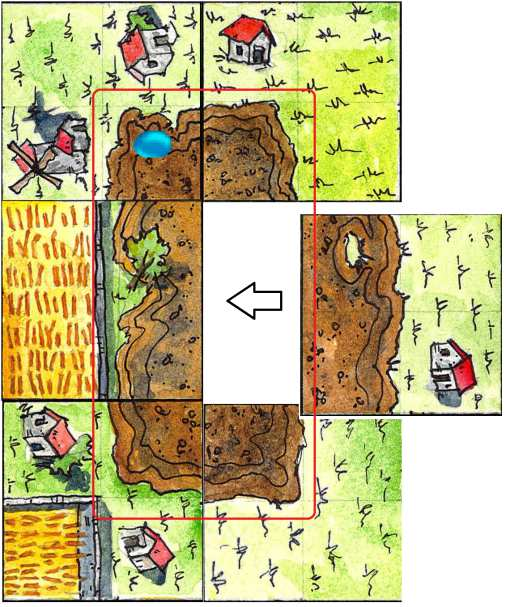
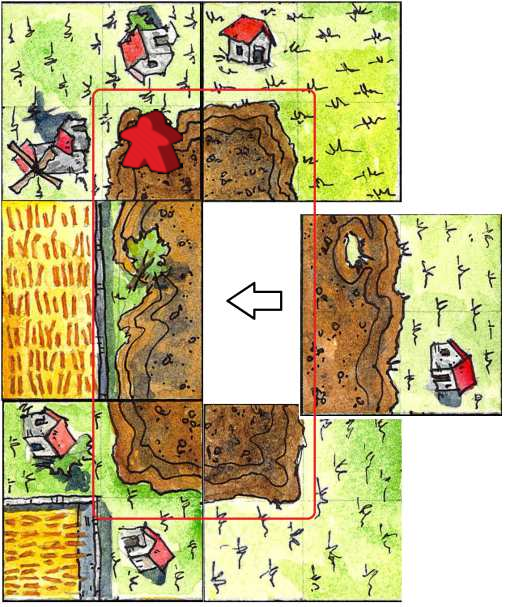
Refine contents and images
Replaced markers with meeples.

Changed region(s): [[0.2372, 0.1779, 0.3557, 0.2965]]

diff --git a/index.html b/index.html
@@ -13,6 +13,9 @@
 			break-after:always;
 			page-break-after:always;
 		}
+		.center {
+			text-align:center;
+		}
 		h1 {
 			font-size:1.5em;
 			font-weight:bold;
@@ -89,14 +92,17 @@
 		<h1>Farmopul 2 人用説明書 (私家版)</h1>
 		<p class="credit">Archinerd によるマイクロプルのリテーマ</p>
 		<p class="description">1 人用のソリティア パズルまたは 2 人用の対戦ゲーム</p>
+		<div class="center"><img width="640" height="328" src="images/title image.jpg"></div>
+
 		<h2>目次</h2>
 		<ul class="nomark">
 			<li><a href="#component">コンポーネント</a></li>
+			<li><a href="#about">Farmopul とは</a></li>
+			<li><a href="#glossary">用語</a></li>
 			<li><a href="#procedure">ゲームの手順</a></li>
 			<li><a href="#gameend">ゲームの終了</a></li>
 			<li><a href="#win">ゲームの勝敗</a></li>
 			<li><a href="#scoring">得点計算</a></li>
-			<li><a href="#glossary">用語</a></li>
 			<li><a href="#hand">手札関係のルール</a></li>
 			<li><a href="#tiles">タイルを場に出すときのルール</a></li>
 			<li><a href="#myheap">自分の所有地と連続プレイに関するルール</a></li>
@@ -106,52 +112,27 @@
 			<li><a href="#appendix-c">付録 C: 4 人でプレイする場合のルール変更点</a></li>
 			<li><a href="#appendix-d">付録 D: アプリ版 micropul</a></li>
 		</ul>
+
 		<h2 id="component">コンポーネント</h2>
 		<div class="component">
 			<ul>
 				<li>タイル 48 枚</li>
-				<li>農民 6 個 (マーカー 2 色 3 個ずつ)</li>
+				<li>農夫 6 個 (マーカー 2 色 3 個ずつ)</li>
 			</ul>
 			<img class="component" width="56" height="56" src="images/fig0000.png">
 			<img class="component" width="56" height="56" src="images/fig0001.png">
 			<img class="component" width="56" height="56" src="images/fig0002.png">
 			<img class="component" width="56" height="56" src="images/fig0003.png">
 		</div>
-		<h2 id="procedure">ゲームの手順</h2>
-		<div class="overview">
-			<img width="350" src="images/fig0012.png">
-			<ol>
-				<li>最初に親を決める。</li>
-				<li>親はスタートタイル以外のタイルを伏せたままシャッフルしコアをつくる。</li>
-				<li>各プレイヤーはコアから 6 枚のタイルを引き手札にする。</li>
-				<li><p>最初のプレイヤーをランダムに決める。</p></li>
-				<li>
-					<p>最初のプレイヤーから各プレイヤーは以下の 3 つのうちの<b>どれか</b>を実行する。パスはできない。</p>
-					<ul>
-						<li><b>自分の手札</b>のタイルを 1 枚、場に出す。</li>
-						<li><b>自分の所有地</b>から自分の手札にタイルを 1 枚補充する。</li>
-						<li>農場に自分の農民を乗せる。</li>
-					</ul>
-				</li>
-				<li>ゲームが終了するまで 5 を繰り返す。</li>
-				<li>ゲームが終わったら得点計算をする。</li>
-			</ol>
-		</div>
-		<h2 id="gameend">ゲームの終了</h2>
-		<p>以下のいずれかの場合にゲームは終了する。</p>
-		<ol>
-			<li>大地から最後の 1 枚のタイルが引かれ、<b>自分の所有地</b>もしくは<b>相手の所有地</b>に加えられた。</li>
-			<li>自分の手番だが 3 つの選択肢のどれもプレイできない。</li>
-		</ol>
-		<h2 id="win">ゲームの勝敗</h2>
-		<p>得点計算の結果、得点が多い方が勝者となる。</p>
-		<p>ただしゲームの終了 2 でゲームが終了した場合はプレイできなかったプレイヤーは即時に敗者となる。</p>
-		<h2 id="scoring">得点計算</h2>
-		<ol>
-			<li><b>自分の所有地</b>のタイル 1 枚に付き <b>2 点</b></li>
-			<li><b>自分の手札</b>のタイル 1 枚に付き <b>1 点</b></li>
-			<li>自分の<b>確保が確定</b>した<b>閉じた</b>農場に含まれる農地 1 つにつき <b>1 点</b>。大きな農地は 1 点として数える。</li>
-		</ol>
+
+		<h2 id="about">Farmopul とは</h2>
+		<p>Farmopul は以下のものを集めて点数を競うゲームです。</p>
+		<ul>
+			<li>自分が確保した閉じた農場</li>
+			<li>自分の所有地</li>
+			<li>自分の手札</li>
+		</ul>
+
 		<h2 id="glossary">用語</h2>
 		<dl class="words">
 			<dt>タイル</dt>
@@ -172,22 +153,22 @@
 			<dt>自分の所有地</dt>
 			<dd><p>大地から引いた<b>伏せられたまま</b>の自分専用のタイルの山。ゲームスタート時は存在しない。</p></dd>
 			<dt>手札</dt>
-			<dd>プレイにより増減する。ゲームスタート時の枚数は 6 枚。</p></dd>
+			<dd>プレイにより増減する。ゲームスタート時の枚数は 6 枚。で 6 枚を超えて持つことはできない。</p></dd>
 			<dt>場</dt>
 			<dd>
 				<p>タイルを並べてゆく場所</p>
 				<img width="350" src="images/fig0015.png">
 			</dd>
-			<dt>農民</dt>
+			<dt>農夫</dt>
 			<dd>
 				<img width="48" height="48" src="images/fig0003.png">
-				<p>マーカーを農民と呼ぶ。農場に乗せる。</p>
+				<p>マーカーを農夫と呼ぶ。農夫を農場に乗せるとその農場はそのプレイヤーに確保される。</p>
 			</dd>
 			<dt>農地</dt>
 			<dd>
 				<img width="36" height="36" src="images/fig0016.png">
 				<img width="36" height="36" src="images/fig0017.png">
-				<p>タイルに描かれている農耕可能な土地。畑になっているものと土の状態のものがある。</p>
+				<p>タイルに描かれている農耕可能な土地。畑と土壌がある。</p>
 			</dd>
 			<dt>大きな農地</dt>
 			<dd>
@@ -216,60 +197,106 @@
 				<img width="48" height="48" src="images/fig0009.png">
 			</dd>
 		</dl>
+
+		<h2 id="procedure">ゲームの進め方</h2>
+		<div class="overview">
+			<img width="350" src="images/fig0012.png">
+			<ol>
+				<li>最初に親を決めます。親は大地とスタートタイルを用意すること以外は普通のただのプレイヤーです。有利不利はないので、だれが親でもかまいません。</li>
+				<li>親はスタートタイル以外のタイルを伏せたままシャッフルし大地を用意します。親としての役割はこれで終わりです。</li>
+				<li>各プレイヤーは大地から 6 枚のタイルを引き手札にします。これでプレイの準備ができました。</li>
+				<li><p>最初のプレイヤーをじゃんけんでもダイスでもカードカットでも好きな方法でランダムに決めます。</p></li>
+				<li>
+					<p>最初のプレイヤーから各プレイヤーは以下の <b>3 つのうちのどれかのアクション</b>を実行します。パスはできません。</p>
+					<ul>
+						<li><b>自分の手札</b>のタイルを 1 枚、場に出す。</li>
+						<li><b>自分の所有地</b>から自分の手札にタイルを 1 枚補充する。</li>
+						<li>農場に自分の農民を乗せて確保する。</li>
+					</ul>
+				</li>
+				<li>ゲームが終了するまで 5 を繰り返します。</li>
+				<li>ゲームが終わったら得点計算をします。</li>
+			</ol>
+		</div>
+
+		<h2 id="gameend">ゲームの終了</h2>
+		<p>以下のどちらかの場合にゲームは終わります。</p>
+		<ol>
+			<li>大地から最後の 1 枚のタイルが引かれ、<b>自分の所有地</b>もしくは<b>相手の所有地</b>に加えられた。</li>
+			<li>自分の手番だが 3 つの選択肢のどれもプレイできない。</li>
+		</ol>
+
+		<h2 id="win">ゲームの勝敗</h2>
+		<p>得点計算の結果、得点が多い方が勝者となります。</p>
+		<p>ただし ‘ゲームの終了 2’ でゲームが終了した場合はプレイできなかったプレイヤーは即時に敗者となります。</p>
+
+		<h2 id="scoring">得点計算</h2>
+		<ol>
+			<li><b>自分の所有地</b>のタイル 1 枚に付き <b>2 点</b></li>
+			<li><b>自分の手札</b>のタイル 1 枚に付き <b>1 点</b></li>
+			<li>自分の<b>確保が確定</b>した<b>閉じた</b>農場に含まれる農地 1 つにつき <b>1 点</b>。大きな農地は 1 点として数える。</li>
+		</ol>
+
 		<h2 id="hand">手札関係のルール</h2>
 		<ul>
-			<li>手札のタイルの数は <b>6 枚を越えてはならない。</b></li>
-			<li>手札の補充は<b>自分の所有地</b>からしかできず直接大地から補充はできない。</li>
+			<li>手札のタイルの数は <b>6 枚を越えてはいけません。</b></li>
+			<li>手札の補充は<b>自分の所有地</b>からしかできず直接大地から補充はできません。</li>
 		</ul>
+
 		<h2 id="tiles">タイルを場に出すときのルール</h2>
 		<ul class="tilesrules">
 			<li>
-				<p>プレイするタイルはすでに置かれているタイルに隣接して繋がるように配置しなければならない。下図の赤線で囲まれた場所にしかタイルを置くことができない。</p>
+				<p>プレイするタイルはすでに置かれているタイルに隣接してつながるように配置しなければならなりません。下図の赤線で囲まれた場所にしかタイルを置くことができません。</p>
 				<img width="256" height="248" src="images/fig0022.png">
 			</li>
 			<li>
-				<p>タイル同士は下図のように<b>同じ種類の最低 1 組</b>の農地同士が<b>必ず</b>接していなければならない。</p>
+				<p>タイル同士は下図のように<b>同じ種類の最低 1 組</b>の農地同士が<b>必ず</b>接していなければなりません。</p>
 				<img width="256" height="" src="images/fig0020.png">
 			</li>
 			<li>
-				<p>下図のように<b>異なる種類の農地は接してはいけない。</b>この例ではプレイタイルを 90 度反時計回りに回すとタイルを置くことができる。</p>
+				<p>下図のように<b>異なる種類の農地は接してはいけません。</b>この例ではプレイタイルを 90 度反時計回りに回すとタイルを置くことができます。</p>
 				<img width="256" height="" src="images/fig0021.png">
 			</li>
-			<li><p>タイルを置くことができた場合、プレイタイルと隣接タイルの農地と作業小屋が接しているか<b>必ずチェックする</b>こと。なぜかというと作業小屋と農地が接すると<b>大地の 1 部を所有地にすることができる</b>からである。大地の土地の 1 部を所有することについては次項で述べる。</p></li>
-			<li><p>作業小屋、風車小屋、空き地は隣接タイルの農地に接してもかまわないし、接さなくてもかまわない。接していない場合は大地を開墾することも連続プレイもできない。</p></li>
+			<li><p>タイルを置くことができた場合、プレイタイルと隣接タイルの農地と作業小屋が接しているか<b>必ずチェック</b>しなければなりません。なぜかというと作業小屋と農地が接すると<b>大地からタイルを引いて自分の所有地にすることができる</b>からです。大地からタイルを引いて自分の所有地にすることについては後で述べます。</p></li>
+			<li><p>作業小屋、風車小屋、空き地は隣接タイルの農地に接してもかまいませんし、接さなくてもかまいません。接していない場合は大地からタイルを引くことも連続プレイもできません。</p></li>
 		</ul>
+
 		<h2 id="myheap">自分の所有地と連続プレイに関するルール</h2>
-		<h3 id="catalyst">大地の 1 部を所有する</h3>
-		<p>　下のようにタイルをプレイすると、農地と作業小屋が隣り合う。このときプレイヤーは<b>大地</b>の 1 部を<b>所有する</b>ことができる。すなわち<b>大地</b>から<b>自分の所有地</b>にタイルを引くことができる。また、農地と風車小屋隣り合うことでもう 1 度だけ連続プレイをすることもできる。</p>
+		<h3 id="catalyst">大地からタイルを引き自分の所有地にする</h3>
+		<p>　下のようにタイルをプレイすると、農地と作業小屋が隣り合います。このときプレイヤーは<b>大地</b>からタイルを 1 枚伏せたま引き、それを<b>自分の所有地にする</b>ことができます。また、農地と風車小屋隣り合っているので、もう 1 度だけ連続プレイをすることもできます。</p>
 		<dl class="catalyst">
 			<dt><img width="192" height="" src="images/fig0006.png"></dt>
-			<dd><p>1 棟の作業小屋が隣接タイルの農地に接しているため大地の 1 部を所有することができる。つまり 1 枚のタイルを<b>大地</b>から<b>自分の所有地</b>に伏せたまま引くことができる。また 2 棟の作業小屋も隣接タイルの農地に接している。そのため同様に 2 枚のタイルを<b>大地</b>から<b>自分の所有地</b>に伏せたまま引くことができる。</p></dd>
+			<dd><p>1 棟の作業小屋が隣接タイルの農地に接しているため大地からタイルを 1 枚伏せたまま引いて自分の所有地に加えることができます。自分の所有地のタイルは伏せたままにしておき、手札になるまで見てはいけません。<br>また 2 棟の作業小屋も隣接タイルの農地に接しています。そのため同様に 2 枚のタイルを<b>大地</b>から<b>自分の所有地</b>に伏せたまま引くことができます。</p></dd>
 			<dt><img width="192" height="" src="images/fig0023.png"></dt>
-			<dd><p>プレイタイルの左上の農地が隣接タイルの 1 棟の作業小屋と 2 棟の作業小屋に接している。この場合隣接タイルの作業小屋の棟数の数の合計 3 つと同数のタイル 3 枚を<b>大地</b>から<b>自分の所有地</b>に伏せた状態で引くことができる。また右上の農地も隣接タイルの 1 棟の作業小屋に接しているので更にもう 1 枚のタイルを<b>大地</b>から<b>自分の所有地</b>に伏せた状態で引くことができる。</p></dd>
+			<dd><p>プレイタイルの左上の農地が隣接タイルの 1 棟の作業小屋と 2 棟の作業小屋に接しています。この場合隣接タイルの作業小屋の棟数の数の合計 3 つと同数のタイル 3 枚を<b>大地</b>から<b>自分の所有地</b>に伏せたままで引くことができます。また右上の農地も隣接タイルの 1 棟の作業小屋に接しているので更にもう 1 枚のタイルを<b>大地</b>から<b>自分の所有地</b>に伏せた状態で引くことができます。</p></dd>
 			<dt><img width="192" height="" src="images/fig0024.png"></dt>
-			<dd><p>土の農地が隣接タイルの風車小屋に接しているため、プレイヤーはもう 1 度連続してプレイすることができる。その際のプレイはゲームの手順 5 で概説した 3 つの中からどれかを実行する。その結果再び風車小屋がプレイタイルもしくは隣接タイルの農地に接した場合は再プレイは行うことはできない。つまり<b>再プレイは自分のプレイでは 1 度のみ。</b></p></dd>
+			<dd><p>土壌の農地が隣接タイルの風車小屋に接しているため、プレイヤーはもう 1 度連続してプレイすることができます。その際のプレイはゲームの手順 5 で説明した 3 つのアクションの中から 1 つを選んで実行します。その結果再び風車小屋がプレイタイルもしくは隣接タイルの農地に接した場合は再プレイは行うことはできません。つまり<b>再プレイは自分のプレイでは 1 度だけ</b>です。</p></dd>
 		</dl>
+
 		<h3 id="myheap">自分の所有地に関するルール</h3>
 		<ul>
-			<li><p>常にタイルは伏せたままにしておき見てはならないし見せてもならない。</p></li>
-			<li><p><b>自分の所有地</b>にタイルがあるのなら自分の手番で<b>自分の所有地</b>から<b>手札</b>にタイルを補充しても良い。</p></li>
-			<li>ゲーム中における<b>自分の所有地</b>の最大タイル数の制限はない。</p>
+			<li><p>常にタイルは伏せたままにしておいて見てはいけませんし見せてもいけません。</p></li>
+			<li><p><b>自分の所有地</b>にタイルがあるのなら自分の手番で<b>自分の所有地</b>から<b>手札</b>にタイルを補充することができます</p></li>
+			<li>ゲーム中における<b>自分の所有地</b>の最大タイル数の制限はありません。</p>
 		</ul>
+
 		<h2 id="marker">農場に農夫 (マーカー) を乗せるときのルール</h2>
 		<h3>農場の確保</h3>
-		<p>　プレイヤーは<b>自分の手番のときに</b>好きな農場に農夫 (マーカー) を置くことができる。</p>
-		<p>　農場の上に農夫を置くとその農場が自分のものとして<b>確保</b>される。農夫を置くとその取り消しはできず後で回収することもできない (<a href="https://www.mobius-games.co.jp/PDF/Carcassonne.pdf" class="external">カルカソンヌ</a>のミープルのようには回収されないしできない)。</p>
-		<p>　確保した農場が最終的に<b>閉じているなら</b>、得点計算項で触れたように、その農場に含まれる農地の数が全て自分の得点となる (大きな農地は 1 点として計算する)。</p>
-		</p>　しかし農場が閉じていなければその農場は得点とはならない。</p>
+		<p>　プレイヤーは<b>自分の手番のときに</b>好きな農場に農夫を置くことができます。</p>
+		<p>　農場の上に農夫を置くとその農場が自分のものとして<b>確保</b>されます。農夫を置くとその取り消しはできませんし、<a href="https://www.mobius-games.co.jp/PDF/Carcassonne.pdf" class="external">カルカソンヌ</a>のミープルのようにプレイで回収することもできません。</p>
+		<p>　確保した農場が最終的に<b>閉じているなら</b>、得点計算項で触れたように、その農場に含まれる農地の数が全て自分の得点になります (大きな農地は 1 点として計算します)。</p>
+		</p>　しかし農場が閉じていなければその農場は得点とはなりません。</p>
+
 		<h3>農夫を農場に置けないとき</h3>
-		<p>　前述したようにプレイヤーは自分の手番のときに好きな農場に農夫を置くことができるが例外もある。</p>
-		<p>　自分の手番の前にすでに農夫が置かれていて、誰かによって<b>確保済み</b>の農場には農夫を置くことはできない。</b></p>
+		<p>　前述したようにプレイヤーは自分の手番のときに好きな農場に農夫を置くことができますが例外もあります。</p>
+		<p>　自分の手番の前にすでに農夫が置かれていて、誰かによって<b>確保済み</b>の農場には農夫を置くことはできません。</b></p>
+
 		<h3>プレイの結果農夫を置いた複数の農場が統合された場合</h3>
-		<p>　まだ閉じていない複数の農場上にそれぞれ<b>異なるプレイヤーの農夫が置かれている</b>ものとする。</p>
-		<p>　プレイが進んだ結果それらの農場が 1 つに統合される場合がある。それらの農場は統合はされるが、農夫による確保は帳消しになり誰の得点源にもならない<b>死んだ</b>農場になる。死んだ農場は誰にも確保されておらず誰も確保できない農場になる。</p>
-		<p>　このルールを応用して、相手の農夫を乗せた農場に自分の農夫を乗せた農場を統合させて相手の農場が相手の得点になるのを妨害する、ということもできる。もちろんその際、貴重な自分の農夫を 1 つかそれ以上消費することになる。</p>
-		<p>　また異なるパターンとして、まだ閉じていない複数の農場上に<b>それぞれ自分の農夫が置かれている</b>ものとする。</p>
-		<p>　プレイの結果それらの農場が統合された場合、その統合された農場が最終的に閉じられた場合は自分の得点となる。ただし農夫が複数乗っていても農夫の数に関係なく、農地の数だけ得点される。</p>
+		<p>　まだ閉じていない複数の農場上にそれぞれ<b>異なるプレイヤーの農夫が置かれている</b>とします。</p>
+		<p>　プレイが進んだ結果それらの農場が 1 つに統合される場合があります。それらの農場は統合されますが、農夫による確保は帳消しになり誰の得点源にもならない<b>死んだ</b>農場になります。死んだ農場は誰にも確保されておらず誰も確保できない農場になります。</p>
+		<p>　このルールを応用して、相手が確保している農場に、自分が確保している農場を統合させて相手の農場が相手の得点になるのを妨害する、ということもできます。もちろんその際、貴重な自分の農夫を 1 つかそれ以上消費することになり得点にもなりません。</p>
+		<p>　また異なるパターンとして、まだ閉じていない複数の農場上に<b>それぞれ自分の農夫が置かれている</b>ものとします。</p>
+		<p>　プレイの結果それらの農場が統合された場合、その統合された農場が最終的に閉じられた場合は自分の得点となります。ただし農夫が複数乗っていても農夫の数に関係なく、農地の数だけ得点計算されます。</p>
 		<h2 id="appendix-a">付録 A: リンク</h2>
 		<ul>
 			<li><a href="http://neutralbox.com/micropul/">micropul 公式サイト</a></li>
@@ -279,17 +306,17 @@
 			<li><a href="https://bodoge.hoobby.net/games/micropul">ボードゲーマ</a>: micropul のページ</li>
 		</ul>
 		<h2 id="appendix-b">付録 B: 3 人でプレイする場合のルール変更点</h2>
-		<p>プレイヤーが 3 人の場合は以下のようにルールが変更され、あるいは変更されない。</p>
+		<p>プレイヤーが 3 人の場合は以下のようにルールが変更されるか、あるいは変更されません。</p>
 		<ul>
-			<li>マーカーは 1 人につき 2 つに減らす。</li>
+			<li>農夫は 1 人につき 2 つに減らす。</li>
 			<li>時計回りにプレイする。</li>
 			<li>その他は 2 人用ルールと同一。タイルも 48 枚のまま。</li>
 		</ul>
 		<h2 id="appendix-c">付録 C: 4 人でプレイする場合のルール変更点</h2>
-		<p>プレイヤーが 4 人の場合は以下のようにルールが変更され、あるいは変更されない。</p>
+		<p>プレイヤーが 4 人の場合は以下のようにルールが変更されるか、あるいは変更されません。</p>
 		<ul>
 			<li>使用タイルは 2 セット、合計 96 枚。</li>
-			<li>マーカーは 1 人につき 3 つで変更なし。</li>
+			<li>農夫は 1 人につき 3 つで変更なし。</li>
 			<li>時計回りにプレイする。</li>
 			<li>その他は 2 人用ルールと同一。</li>
 		</ul>
